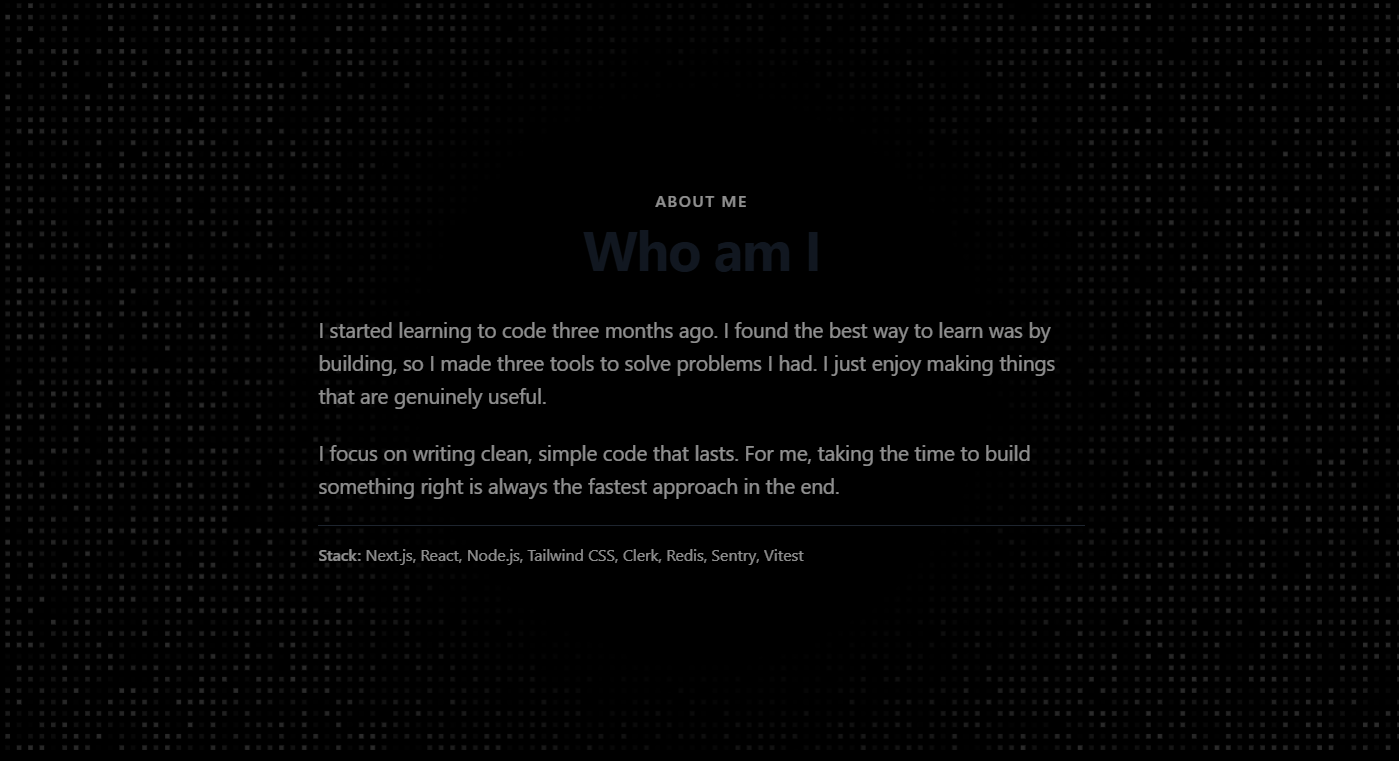
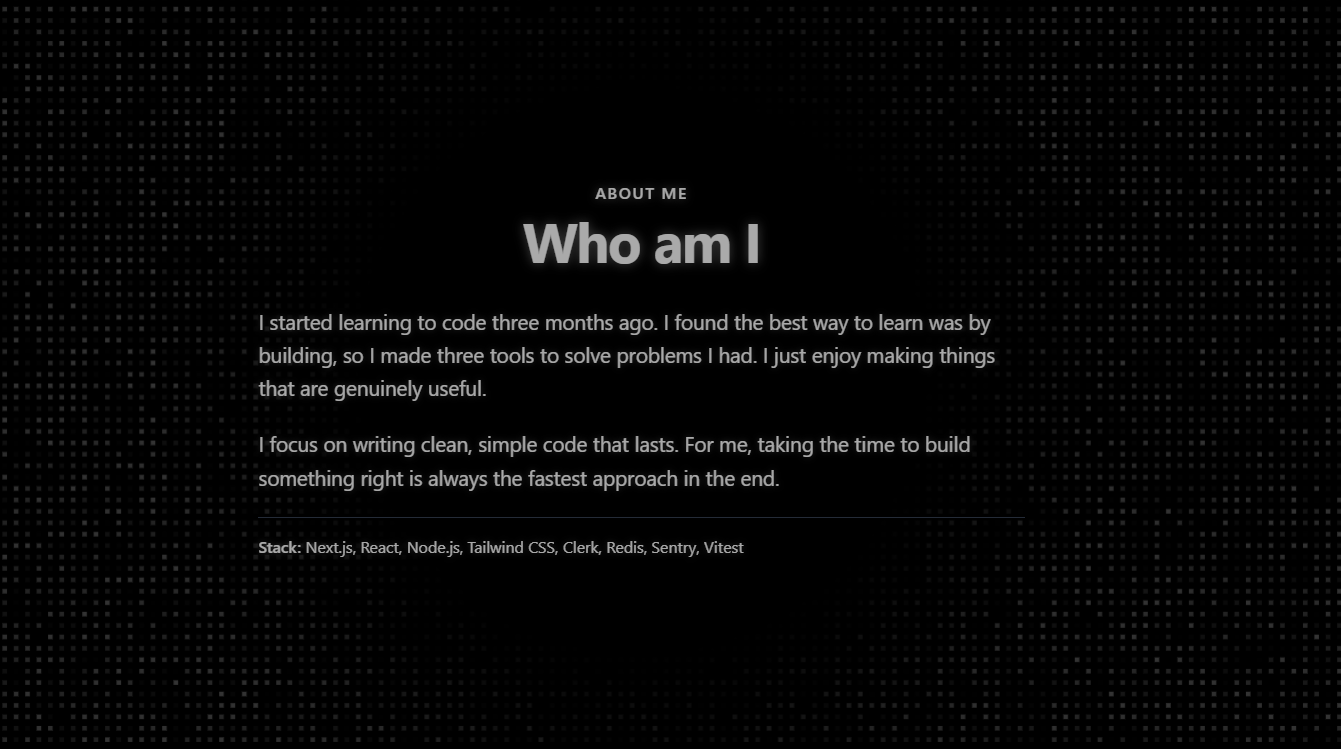
style: about me

diff --git a/src/components/AboutMe.jsx b/src/components/AboutMe.jsx
@@ -18,19 +18,24 @@ export default function AboutMe() {
       {/* Main content centered */}
       <div className="relative z-10 flex flex-col items-center gap-8 max-w-2xl">
         <div className="flex flex-col items-center gap-2">
-          <h2 className="text-sm font-semibold tracking-widest text-white uppercase">About Me</h2>
-          <h1 className="text-4xl md:text-5xl font-bold tracking-tight text-gray-800">Who am I</h1>
+          {/* CHANGE: Added text shadow for a subtle glow */}
+          <h2 className="text-sm font-semibold tracking-widest text-white uppercase [text-shadow:0_0_8px_rgba(255,255,255,0.4)]">About Me</h2>
+          <h1 className="text-4xl md:text-5xl font-bold tracking-tight text-white [text-shadow:0_0_10px_rgba(255,255,255,0.4)]">Who am I</h1>
         </div>
 
         <div className="flex flex-col gap-5 text-left">
-          <p className="text-base md:text-lg text-white leading-relaxed">
+          {/* CHANGE: Added text shadow for a subtle glow */}
+          <p className="text-base md:text-lg text-white leading-relaxed [text-shadow:0_0_6px_rgba(255,255,255,0.3)]">
             I started learning to code three months ago. I found the best way to learn was by building, so I made three tools to solve problems I had. I just enjoy making things that are genuinely useful.
           </p>
 
-          <p className="text-base md:text-lg text-white leading-relaxed">I focus on writing clean, simple code that lasts. For me, taking the time to build something right is always the fastest approach in the end.</p>
+          <p className="text-base md:text-lg text-white leading-relaxed [text-shadow:0_0_6px_rgba(255,255,255,0.3)]">
+            I focus on writing clean, simple code that lasts. For me, taking the time to build something right is always the fastest approach in the end.
+          </p>
 
           <div className="pt-4 border-t border-gray-700">
-            <p className="text-sm text-white">
+            {/* CHANGE: Added text shadow for a subtle glow */}
+            <p className="text-sm text-white [text-shadow:0_0_6px_rgba(255,255,255,0.3)]">
               <span className="font-semibold text-white">Stack:</span> Next.js, React, Node.js, Tailwind CSS, Clerk, Redis, Sentry, Vitest
             </p>
           </div>

diff --git a/src/app/page.js b/src/app/page.js
@@ -109,7 +109,7 @@ export default function Home() {
       </motion.div>
 
       {/* AboutMe Section */}
-      <motion.div initial={{ opacity: 0 }} animate={{ opacity: Math.max(transitionProgress - 0.1, 0) }} transition={{ duration: 0 }}>
+      <motion.div initial={{ opacity: 0 }} animate={{ opacity: Math.max(transitionProgress - 0.001, 0) }} transition={{ duration: 0 }}>
         <AboutMe />
       </motion.div>
     </>
